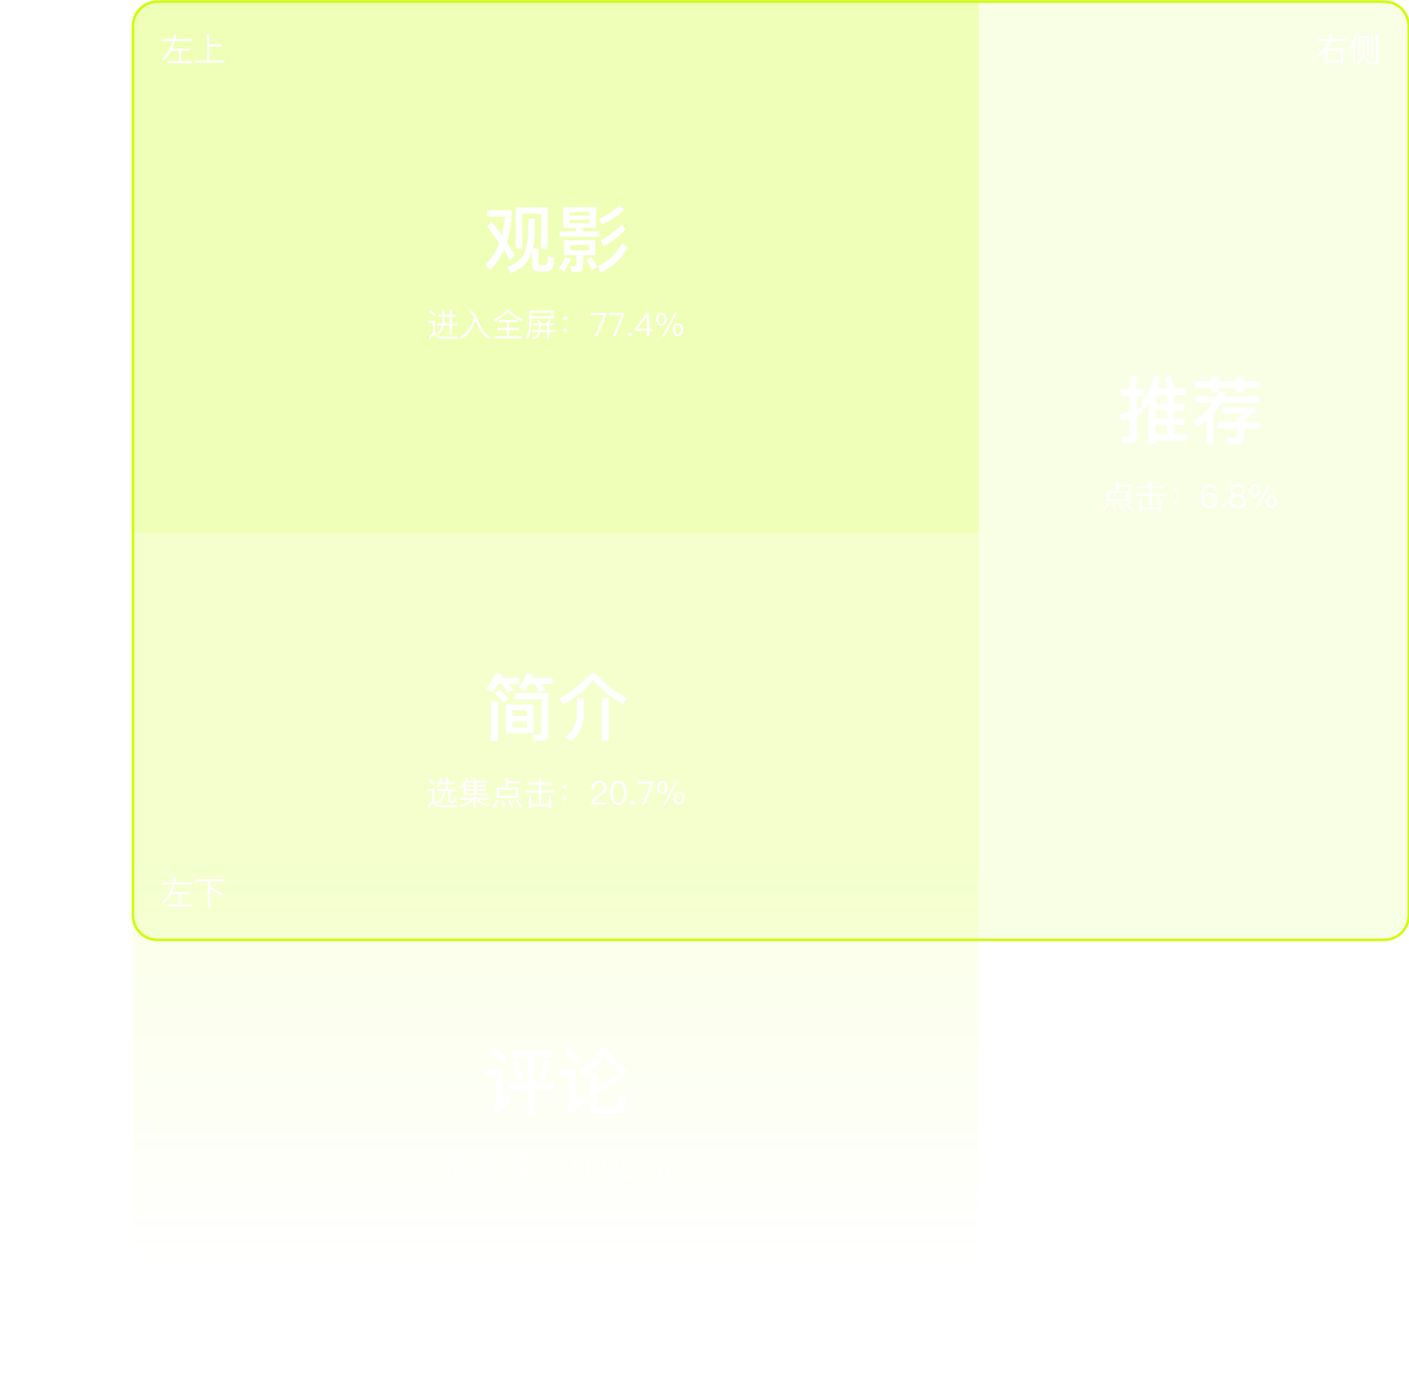
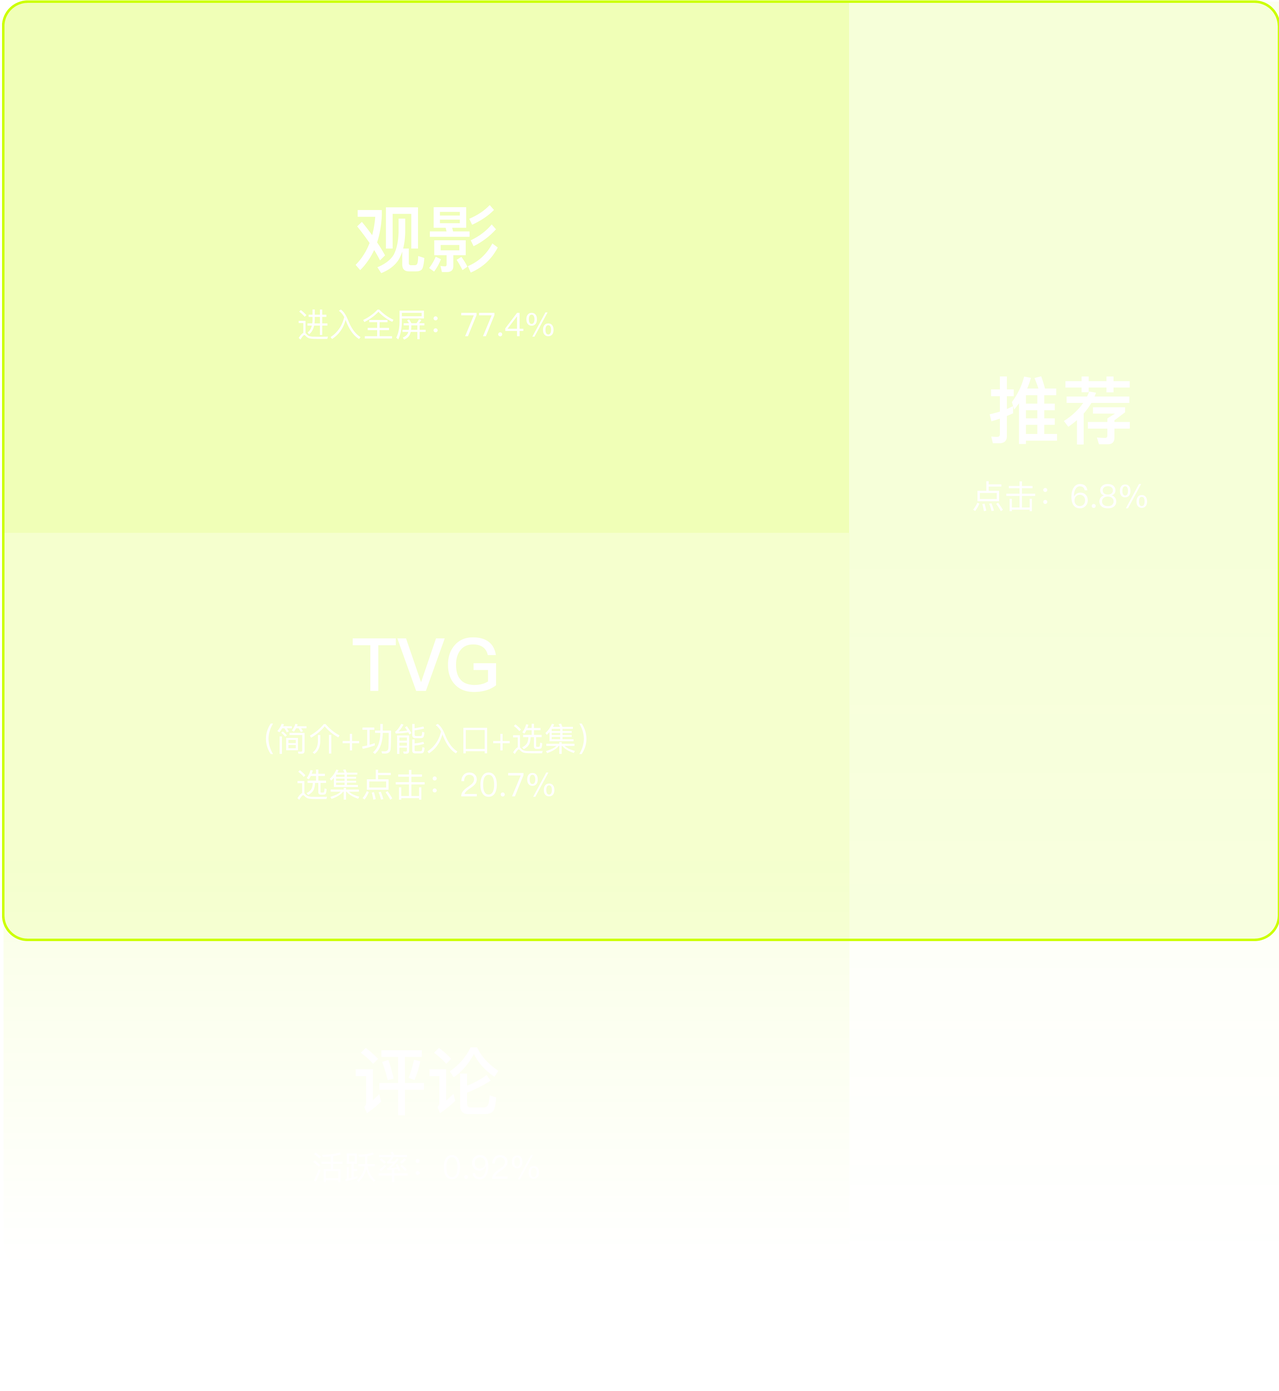
feat: 工作经历文案重写与双端心智差异页优化
- 爱奇艺阶段工作经历按项目详情重写，突出工作价值与结果
- 双端心智差异页新增「设计原则提炼」高亮语句，拆分为两行展示
- 「沉浸体验」轴标签移至横向坐标轴上方
- 图表与下方文字间距加大
- 重构背景页卡片文案调整
- 用户调研页左侧气泡箭头填充色调整为 #1D2011
- 更新架构诊断页「三分屏线上数据」图片

diff --git a/src/data/projects.ts b/src/data/projects.ts
@@ -1048,7 +1048,7 @@ export const projectData: Project[] = [
         },
         {
           heading: '重构背景：由数据反差开启假设验证',
-          body: '复盘 Pad 端播放页的数据时，我们发现了一个强烈反差：同样是使用手机端布局思维，手机端表现稳健，Pad 端却遭遇了完播与留存瓶颈。\n\n这一反差让我们产生一个怀疑：手机端的布局策略，是否与 Pad 大屏用户的心智相背离？带着这一怀疑，我们开启了后续验证。',
+          body: '复盘 Pad 端播放页数据时，我们发现了一个强烈反差：沿用手机端的密集布局，手机端表现稳健，Pad 端却遭遇了留存瓶颈。\n\n大屏天然的连播优势正在失效，这背后指向一个更严峻的问题：高价值用户的价值正被系统性低估。',
           html: `<style>
 .ba-flow{display:flex;flex-direction:row;align-items:stretch;justify-content:center;gap:12px;max-width:960px;margin:24px auto 0}
 .ba-step{flex:1;min-width:0;background:rgba(30,30,34,0.7);backdrop-filter:blur(12px);-webkit-backdrop-filter:blur(12px);border:1px solid rgba(255,255,255,0.08);border-radius:6px;padding:22px;transition:all 0.35s cubic-bezier(0.16,1,0.3,1);position:relative;overflow:hidden}
@@ -1066,26 +1066,26 @@ export const projectData: Project[] = [
 <div class="ba-flow">
 <div class="ba-step">
 <h4 class="ba-step-title">现象 · 数据反差</h4>
-<p class="ba-step-sub">布局同构，但 Pad 端留存遭遇瓶颈</p>
-<p class="ba-step-desc">密集布局搬到 Pad 端后，完播与连播率持续滞后。</p>
+<p class="ba-step-sub">同构不同效，Pad 留存遇瓶颈</p>
+<p class="ba-step-desc">手机端平移至 Pad 端，完播率与连播率持续滞后。</p>
 </div>
 <div class="ba-step-arrow">→</div>
 <div class="ba-step">
 <h4 class="ba-step-title">解读 · 业务影响</h4>
 <p class="ba-step-sub">高净值用户的价值被低估</p>
-<p class="ba-step-desc">Pad 端用户虽少，但消费净值更高，其商业价值未得到充分体现。</p>
+<p class="ba-step-desc">Pad 端用户天然具备更高消费净值，但粗放布局未匹配其留存与消费深度。</p>
 </div>
 <div class="ba-step-arrow">→</div>
 <div class="ba-step hypothesis">
 <h4 class="ba-step-title">假设 · 核心病灶</h4>
-<p class="ba-step-sub">物理形态与心智错配，手机经验失效</p>
-<p class="ba-step-desc">大屏的专注心智与手机端密集分发错配，反而压榨了沉浸感。</p>
+<p class="ba-step-sub">场景与心智错配</p>
+<p class="ba-step-desc">「密集推荐」违背大屏用户「沉浸、专注」的追剧心智。</p>
 </div>
 <div class="ba-step-arrow">→</div>
 <div class="ba-step verify">
-<h4 class="ba-step-title">验证 · 下一步</h4>
-<p class="ba-step-sub">启动定性深访，寻找大屏破局点</p>
-<p class="ba-step-desc">以真实用户深访与数据交叉验证，校准双端心智边界。</p>
+<h4 class="ba-step-title">验证 · 下一步行动</h4>
+<p class="ba-step-sub">启动深度调研验证</p>
+<p class="ba-step-desc">以真实用户深访追踪跨端行为，捕获真实心智。</p>
 </div>
 </div>`,
         },
@@ -1101,7 +1101,7 @@ export const projectData: Project[] = [
 .pad3-quote{display:flex;gap:10px;align-items:center;min-width:0}
 .pad3-avatar{width:44px;height:44px;border-radius:50%;flex-shrink:0;overflow:hidden;border:1.5px solid #333;align-self:center;display:flex;align-items:center;justify-content:center;background:#1a1a1e}
 .pad3-bubble{background:#1A1A1A;border:1px solid #333333;border-radius:8px;padding:13px 15px;position:relative;flex:1;min-width:0}
-.pad3-bubble.pad::after{content:'';position:absolute;top:50%;left:-6px;width:10px;height:10px;background:#1A1A1A;border-left:1px solid rgba(199,255,0,0.25);border-bottom:1px solid rgba(199,255,0,0.25);transform:translateY(-50%) rotate(45deg)}
+.pad3-bubble.pad::after{content:'';position:absolute;top:50%;left:-6px;width:10px;height:10px;background:#1D2011;border-left:1px solid rgba(199,255,0,0.25);border-bottom:1px solid rgba(199,255,0,0.25);transform:translateY(-50%) rotate(45deg)}
 .pad3-bubble.phone::after{content:'';position:absolute;top:50%;left:-6px;width:10px;height:10px;background:#1A1A1A;border-left:1px solid rgba(255,255,255,0.15);border-bottom:1px solid rgba(255,255,255,0.15);transform:translateY(-50%) rotate(45deg)}
 .pad3-bubble.pad{background:rgba(199,255,0,0.06);border-color:rgba(199,255,0,0.25)}
 .pad3-bubble.phone{background:rgba(255,255,255,0.03);border-color:rgba(255,255,255,0.15)}
@@ -1114,36 +1114,36 @@ export const projectData: Project[] = [
 <div class="pad3-dim">
 <div class="pad3-dim-label">使用场景</div>
 <div class="pad3-dim-body">
-<div class="pad3-quote"><div class="pad3-avatar"><img src="/birdys-portfolio/images/avatars/pad-user-1.jpg" alt="" style="width:100%;height:100%;object-cover" /></div><div class="pad3-bubble pad"><p class="pad3-bubble-text">Pad 是我的<b>「私人电影院」</b>，我会完整、沉浸地追完一整部剧。</p></div></div>
+<div class="pad3-quote"><div class="pad3-avatar"><svg width="22" height="16" viewBox="0 0 22 16" fill="none" stroke="#C7FF00" stroke-width="1.6" stroke-linecap="round" stroke-linejoin="round"><rect x="1.5" y="1.5" width="19" height="13" rx="2.5"/><circle cx="11" cy="12.8" r="0.8" fill="#C7FF00" stroke="none"/></svg></div><div class="pad3-bubble pad"><p class="pad3-bubble-text">Pad 是我的<b>「私人电影院」</b>，我会完整、沉浸地追完一整部剧。</p></div></div>
 <div class="pad3-vs">VS</div>
-<div class="pad3-quote"><div class="pad3-avatar"><img src="/birdys-portfolio/images/avatars/phone-user-1.jpg" alt="" style="width:100%;height:100%;object-cover" /></div><div class="pad3-bubble phone"><p class="pad3-bubble-text">手机是<b>「通勤搭子」</b>，碎片时间图个快、图个方便。</p></div></div>
+<div class="pad3-quote"><div class="pad3-avatar"><svg width="13" height="20" viewBox="0 0 13 20" fill="none" stroke="#a0a0a0" stroke-width="1.6" stroke-linecap="round" stroke-linejoin="round"><rect x="1.5" y="1.5" width="10" height="17" rx="2.5"/><line x1="5" y1="3.5" x2="8" y2="3.5"/><circle cx="6.5" cy="16" r="0.8" fill="#a0a0a0" stroke="none"/></svg></div><div class="pad3-bubble phone"><p class="pad3-bubble-text">手机是<b>「通勤搭子」</b>，碎片时间图个快、图个方便。</p></div></div>
 </div>
 </div>
 <div class="pad3-dim">
 <div class="pad3-dim-label">互动诉求</div>
 <div class="pad3-dim-body">
-<div class="pad3-quote"><div class="pad3-avatar"><img src="/birdys-portfolio/images/avatars/pad-user-2.jpg" alt="" style="width:100%;height:100%;object-cover" /></div><div class="pad3-bubble pad"><p class="pad3-bubble-text">看剧时<b>不想被打断</b>，弹幕和推荐对我来说反而是干扰。</p></div></div>
+<div class="pad3-quote"><div class="pad3-avatar"><svg width="22" height="16" viewBox="0 0 22 16" fill="none" stroke="#C7FF00" stroke-width="1.6" stroke-linecap="round" stroke-linejoin="round"><rect x="1.5" y="1.5" width="19" height="13" rx="2.5"/><circle cx="11" cy="12.8" r="0.8" fill="#C7FF00" stroke="none"/></svg></div><div class="pad3-bubble pad"><p class="pad3-bubble-text">看剧时<b>不想被打断</b>，弹幕和推荐对我来说反而是干扰。</p></div></div>
 <div class="pad3-vs">VS</div>
-<div class="pad3-quote"><div class="pad3-avatar"><img src="/birdys-portfolio/images/avatars/phone-user-2.jpg" alt="" style="width:100%;height:100%;object-cover" /></div><div class="pad3-bubble phone"><p class="pad3-bubble-text">我喜欢<b>边看边刷评论</b>、发弹幕，热闹才有<b>陪伴感</b>。</p></div></div>
+<div class="pad3-quote"><div class="pad3-avatar"><svg width="13" height="20" viewBox="0 0 13 20" fill="none" stroke="#a0a0a0" stroke-width="1.6" stroke-linecap="round" stroke-linejoin="round"><rect x="1.5" y="1.5" width="10" height="17" rx="2.5"/><line x1="5" y1="3.5" x2="8" y2="3.5"/><circle cx="6.5" cy="16" r="0.8" fill="#a0a0a0" stroke="none"/></svg></div><div class="pad3-bubble phone"><p class="pad3-bubble-text">我喜欢<b>边看边刷评论</b>、发弹幕，热闹才有<b>陪伴感</b>。</p></div></div>
 </div>
 </div>
 <div class="pad3-dim">
 <div class="pad3-dim-label">核心期待</div>
 <div class="pad3-dim-body">
-<div class="pad3-quote"><div class="pad3-avatar"><img src="/birdys-portfolio/images/avatars/pad-user-3.jpg" alt="" style="width:100%;height:100%;object-cover" /></div><div class="pad3-bubble pad"><p class="pad3-bubble-text">我期待像在<b>电影院一样专注</b>的沉浸体验。</p></div></div>
+<div class="pad3-quote"><div class="pad3-avatar"><svg width="22" height="16" viewBox="0 0 22 16" fill="none" stroke="#C7FF00" stroke-width="1.6" stroke-linecap="round" stroke-linejoin="round"><rect x="1.5" y="1.5" width="19" height="13" rx="2.5"/><circle cx="11" cy="12.8" r="0.8" fill="#C7FF00" stroke="none"/></svg></div><div class="pad3-bubble pad"><p class="pad3-bubble-text">我期待像在<b>电影院一样专注</b>的沉浸体验。</p></div></div>
 <div class="pad3-vs">VS</div>
-<div class="pad3-quote"><div class="pad3-avatar"><img src="/birdys-portfolio/images/avatars/phone-user-3.jpg" alt="" style="width:100%;height:100%;object-cover" /></div><div class="pad3-bubble phone"><p class="pad3-bubble-text">越<b>热闹</b>越好，<b>弹幕和互动</b>让看剧更有趣。</p></div></div>
+<div class="pad3-quote"><div class="pad3-avatar"><svg width="13" height="20" viewBox="0 0 13 20" fill="none" stroke="#a0a0a0" stroke-width="1.6" stroke-linecap="round" stroke-linejoin="round"><rect x="1.5" y="1.5" width="10" height="17" rx="2.5"/><line x1="5" y1="3.5" x2="8" y2="3.5"/><circle cx="6.5" cy="16" r="0.8" fill="#a0a0a0" stroke="none"/></svg></div><div class="pad3-bubble phone"><p class="pad3-bubble-text">越<b>热闹</b>越好，<b>弹幕和互动</b>让看剧更有趣。</p></div></div>
 </div>
 </div>
 </div>`,
         },
         {
-          heading: '双端心智差异模型：手机做「互动」，Pad 做「降噪」',
-          body: '把这些代表性语录并排放在一起，一个规律浮现出来：Pad 用户反复强调<b>「沉浸、专注、不被打断」</b>，手机用户反复强调<b>「快、互动、陪伴、热闹」</b>。\n\n我把这些高频诉求收敛成两个维度——<b>沉浸体验</b>与<b>互动效率</b>，并用一个二维坐标来锚定差异。这个模型将成为后续所有架构判断的标尺：<b>凡是与 Pad 的「沉浸体验」冲突的设计，都值得被重新审视</b>。',
+          heading: '双端心智差异：手机做「互动」，Pad 做「降噪」',
+          body: '把这些代表性语录并排放在一起，一个规律浮现出来：Pad 用户反复强调<b>「沉浸、专注、不被打断」</b>，手机用户反复强调<b>「快、互动、陪伴、热闹」</b>。\n\n我把这些高频诉求收敛成两个维度 — <b>沉浸体验</b>与<b>互动效率</b>，并用一个二维坐标来锚定差异。',
           html: `<style>
 .pad4-chart{position:relative;width:100%;max-width:520px;height:340px;border-left:1px solid #3f3f46;border-bottom:1px solid #3f3f46;margin:40px auto 20px;background-image:linear-gradient(rgba(63,63,70,0.15) 1px,transparent 1px),linear-gradient(90deg,rgba(63,63,70,0.15) 1px,transparent 1px);background-size:50px 50px}
 .pad4-yl{position:absolute;left:8px;top:0px;font-size:13px;font-weight:500;color:#a0a0a0;white-space:nowrap}
-.pad4-xl{position:absolute;bottom:-28px;right:0;font-size:13px;font-weight:500;color:#a0a0a0}
+.pad4-xl{position:absolute;bottom:10px;right:12px;font-size:13px;font-weight:500;color:#a0a0a0}
 .pad4-cross-v{position:absolute;left:50%;top:0;bottom:0;width:0;border-left:1px dashed rgba(63,63,70,0.4)}
 .pad4-cross-h{position:absolute;left:0;right:0;top:50%;height:0;border-top:1px dashed rgba(63,63,70,0.4)}
 .pad4-box{width:190px;background:#141416;padding:16px 20px;border-radius:10px;position:absolute;box-shadow:0 4px 24px rgba(0,0,0,0.5)}
@@ -1153,8 +1153,10 @@ export const projectData: Project[] = [
 .pad4-box.phone h3{color:#FFFFFF}
 .pad4-box.pad h3{color:#C7FF00}
 .pad4-box p{font-size:12px;margin:0;color:#A0A0A0;line-height:1.6;white-space:nowrap}
+.pad4-principle{max-width:760px;margin:56px auto 0;text-align:center;font-size:18px;font-weight:600;color:#C7FF00;line-height:1.7;letter-spacing:0.02em}
+.pad4-principle-label{font-size:14px;font-weight:500;color:#A0A0A0;letter-spacing:0.04em}
 
-@media(max-width:767px){.pad4-chart{height:360px}.pad4-box{width:140px;padding:12px}.pad4-box p{white-space:normal}}
+@media(max-width:767px){.pad4-chart{height:360px}.pad4-box{width:140px;padding:12px}.pad4-box p{white-space:normal}.pad4-principle-label{font-size:12px}.pad4-principle{font-size:15px}}
 </style>
 <div class="pad4-chart">
 <div class="pad4-cross-v"></div>
@@ -1165,11 +1167,12 @@ export const projectData: Project[] = [
 <div class="pad4-box pad"><h3>Pad</h3><p>• 沉浸式观影场景<br>• 视觉降噪，克制干扰<br>• 心智：沉浸体验优先</p></div>
 
 </div>
+<p class="pad4-principle"><span class="pad4-principle-label">Pad端播放页设计准则</span><br>凡是与 Pad 的「沉浸体验」冲突的设计，都值得被重新审视。</p>
 `,
         },
         {
           heading: '架构诊断：三分屏模式的体验错配',
-          body: '把「沉浸体验」这把标尺放到现有设计上审视，我们发现原 Pad 端播放页沿用手机端的<b>「三分屏」</b>结构，整屏被拆分为三个功能区：\n\n① <b>左上 · 播放器区域</b> — 承载影视画面的核心观影区\n② <b>左下 · 信息互动区</b> — 采用上下双屏结构：第一屏为 TVG 区，集中展示剧集信息、功能按钮与选集选项；第二屏为评论互动区\n③ <b>右侧 · 内容推荐区域</b> — 负责相关内容的推荐分发\n\n结合站内用户数据，我们将功能需求按真实使用频次整理出优先级：<b>全屏观影（77.4%） > 切换选集（20.7%） > 内容推荐（6.8%） > 评论互动（0.92%）</b>。\n\n对照这份优先级，现有布局暴露出两处核心问题：\n\nA.<b>滑动热区局促、操作不便</b> — 高频的「切换选集」被压缩在狭小的交互区域，导致操作成本偏高。\nB.<b>布局与用户需求存在结构性矛盾</b>——需求最高的「全屏观影」仅占据左上局部，而优先级最低的「内容推荐」却占满整个右侧区域，形成「需求越高、承载空间越少」的错位。',
+          body: '把「沉浸体验」这把标尺放到现有设计上审视，我们发现原 Pad 端播放页沿用手机端的<b>「三分屏」</b>结构，整屏被拆分为三个功能区：\n\n① <b>左上 · 播放器区域</b> — 承载影视画面的核心观影区\n② <b>左下 · 信息互动区</b> — 采用上下双屏结构：第一屏为 TVG 区，集中展示剧集信息、功能按钮与选集选项；第二屏为评论互动区\n③ <b>右侧 · 内容推荐区域</b> — 负责相关内容的推荐分发\n\n结合站内用户数据，我们将功能需求按真实使用频次整理出优先级：<b>全屏观影（77.4%） > 切换选集（20.7%） > 内容推荐（6.8%） > 评论互动（0.92%）</b>。\n\n对照这份优先级，现有布局暴露出两处核心问题：\n\nA.<b>滑动热区局促、操作不便</b> — 高频的「切换选集」被压缩在狭小的交互区域，导致操作成本偏高。\nB.<b>布局与用户需求存在结构性矛盾</b>——需求最高的「全屏观影」仅占据左上局部，而优先级最低的「内容推荐」却占满整个右侧区域，形成「高需求，承载空间偏少」的错位。',
           html: `<style>
 .pad6-imgs{display:grid;grid-template-columns:repeat(2,auto);justify-content:center;gap:48px;max-width:1080px;margin:24px auto 0;align-items:start}
 .pad6-fig{display:flex;flex-direction:column;align-items:center}
@@ -1183,7 +1186,7 @@ export const projectData: Project[] = [
         },
         {
           heading: '机型分布：更宽的 Gpad，更大的市场',
-          body: '除体验层的错配外，硬件端也在发生结构性变化：根据行业出货数据与平台终端复核，Gpad（安卓大屏）整体市场占比已达 48%，iPad 系列占比约 52%，且 Gpad 在爱奇艺站内的活跃占比呈现出逐年递增的稳健趋势。\n\n结合市场硬件演进趋势来看，Pad 端屏幕宽高比正从传统的 4:3（iPad 系列）、1.45:1（11 英寸 iPad Pro） 持续向更宽的 1.6:1（主流 Android 与 Gpad） 延伸。这种物理层面的变宽，为 Pad 端播放页的横向架构布局与多任务分屏提供了广阔的发挥空间。',
+          body: '除体验层的错配外，硬件端也在发生结构性变化：根据行业出货数据与平台终端复核，Gpad（安卓大屏）整体市场占比已达 48%，iPad 系列占比约 52%，且 <b>Gpad 出货量与在爱奇艺站内的活跃占比呈现出逐年递增的稳健趋势</b>。\n\n结合市场硬件演进趋势来看，Pad 端屏幕宽高比正从传统的 4:3（iPad 系列）、1.45:1（11 英寸 iPad Pro） 持续向更宽的 1.6:1（主流 Android 与 Gpad） 延伸。这种物理层面的变宽，为 Pad 端播放页的横向架构布局与多任务分屏提供了广阔的发挥空间。',
           html: `<style>
 .pad7-wrap{width:fit-content;max-width:100%;margin:0 auto}
 .pad7-devices{display:flex;flex-wrap:wrap;justify-content:flex-start;align-items:flex-start;gap:24px}
@@ -1224,7 +1227,7 @@ export const projectData: Project[] = [
 @media(max-width:767px){.pad8-row{grid-template-columns:1fr}}
 </style>
 <div class="pad8-row">
-<div class="pad8-card accent"><div><h4 class="pad8-h4">内容优先</h4><p class="pad8-sub">重构沉浸阵地</p><p class="pad8-desc">播放器回归绝对主角。将占比达 77.4% 的全屏观影设为最高优先级，摒弃冗余干扰，将架构精简为「主内容 + 窄辅助」的二分屏，给用户纯净的沉浸体验。</p></div></div>
+<div class="pad8-card accent"><div><h4 class="pad8-h4">内容优先</h4><p class="pad8-sub">重构沉浸阵地</p><p class="pad8-desc">播放器回归绝对主角。将进入全屏观影设为最高优先级，摒弃冗余干扰，将架构精简为「主内容 + 窄辅助」的二分屏，给用户纯净的沉浸体验。</p></div></div>
 <div class="pad8-card"><div><h4 class="pad8-h4">效率至上</h4><p class="pad8-sub">优化信息触达</p><p class="pad8-desc">让高频的<b>切换选集</b>触手可及；将低频互动与推荐合理收纳。通过碎片信息的有序聚合，推动体验从单一的「孤立观影」向「内容深度探索」升级。</p></div></div>
 <div class="pad8-card"><div><h4 class="pad8-h4">商业克制</h4><p class="pad8-sub">达成温和共生</p><p class="pad8-desc">改变生硬的「硬植入」逻辑，将商业触达转化为顺滑的场景服务。在坚守沉浸观影的前提下让商业自然融入，避免对用户注意力的过度争夺。</p></div></div>
 </div>`,

diff --git a/src/data/experience.ts b/src/data/experience.ts
@@ -8,14 +8,14 @@ export const experienceData: ExperienceEntry[] = [
     startDate: '2021-08',
     endDate: '2026-05',
     description: [
-      '##吃鲸AI·视频互动社区',
-      '主导产品从 0 到 1 的交互框架构建，将影视资源库与 AI 生产力深度结合，实现站内流量从消费者到创作者的转化。',
-      '设计「换台词」、「故事接龙」等轻量化玩法，将高门槛创作降维为碎片化改写，有效提升用户创作留存率。',
-      '##一起聊·明星陪看直播间',
-      '优化多人连麦与动态视听布局逻辑，解决高并发场景下的交互冲突，确立直播间沉浸式观影标准。',
-      '重构送礼面板并封装为通用组件，将商业消费转化为情感反馈闭环，显著驱动商业转化数据。',
-      '##爱奇艺·Pad/PC端播放器',
-      '主导核心播放器架构从三分屏向沉浸式二分屏的范式升级，交互效率显著提升，确立流媒体播放器行业交互准则。',
+      '##吃鲸AI · AI 视频互动社区',
+      '作为 0→1 设计 Owner，主导 AI 视频互动社区的交互框架与玩法矩阵，以「以消带产」打通从观看到创作的链路。',
+      '设计台词改写、故事接龙等轻量玩法，将高门槛创作降维为碎片化交互，沉淀「把 AI 不可控校准为可控体验」的设计方法。',
+      '##一起聊 · 明星陪看直播间',
+      '重构直播间视听布局与动态避让逻辑，确立沉浸式观影交互标准，与「弹幕」「卡牌」并列为三大互动体验设计版图。',
+      '重构送礼玩法与组件化架构，将商业消费转化为情感反馈闭环，推动直播营收创上线以来历史新高。',
+      '##爱奇艺 · Pad 端播放页',
+      '主导播放页从「三分屏」到「二分屏」的架构重构，基于双端心智差异模型与站内数据，以「沉浸优先」重新校准大屏信息优先级。',
     ],
     techStack: ['Figma', 'AI Product Design', 'Design System', 'User Research', 'Prototyping', 'Live Streaming UX'],
     companyUrl: 'https://www.iqiyi.com',
